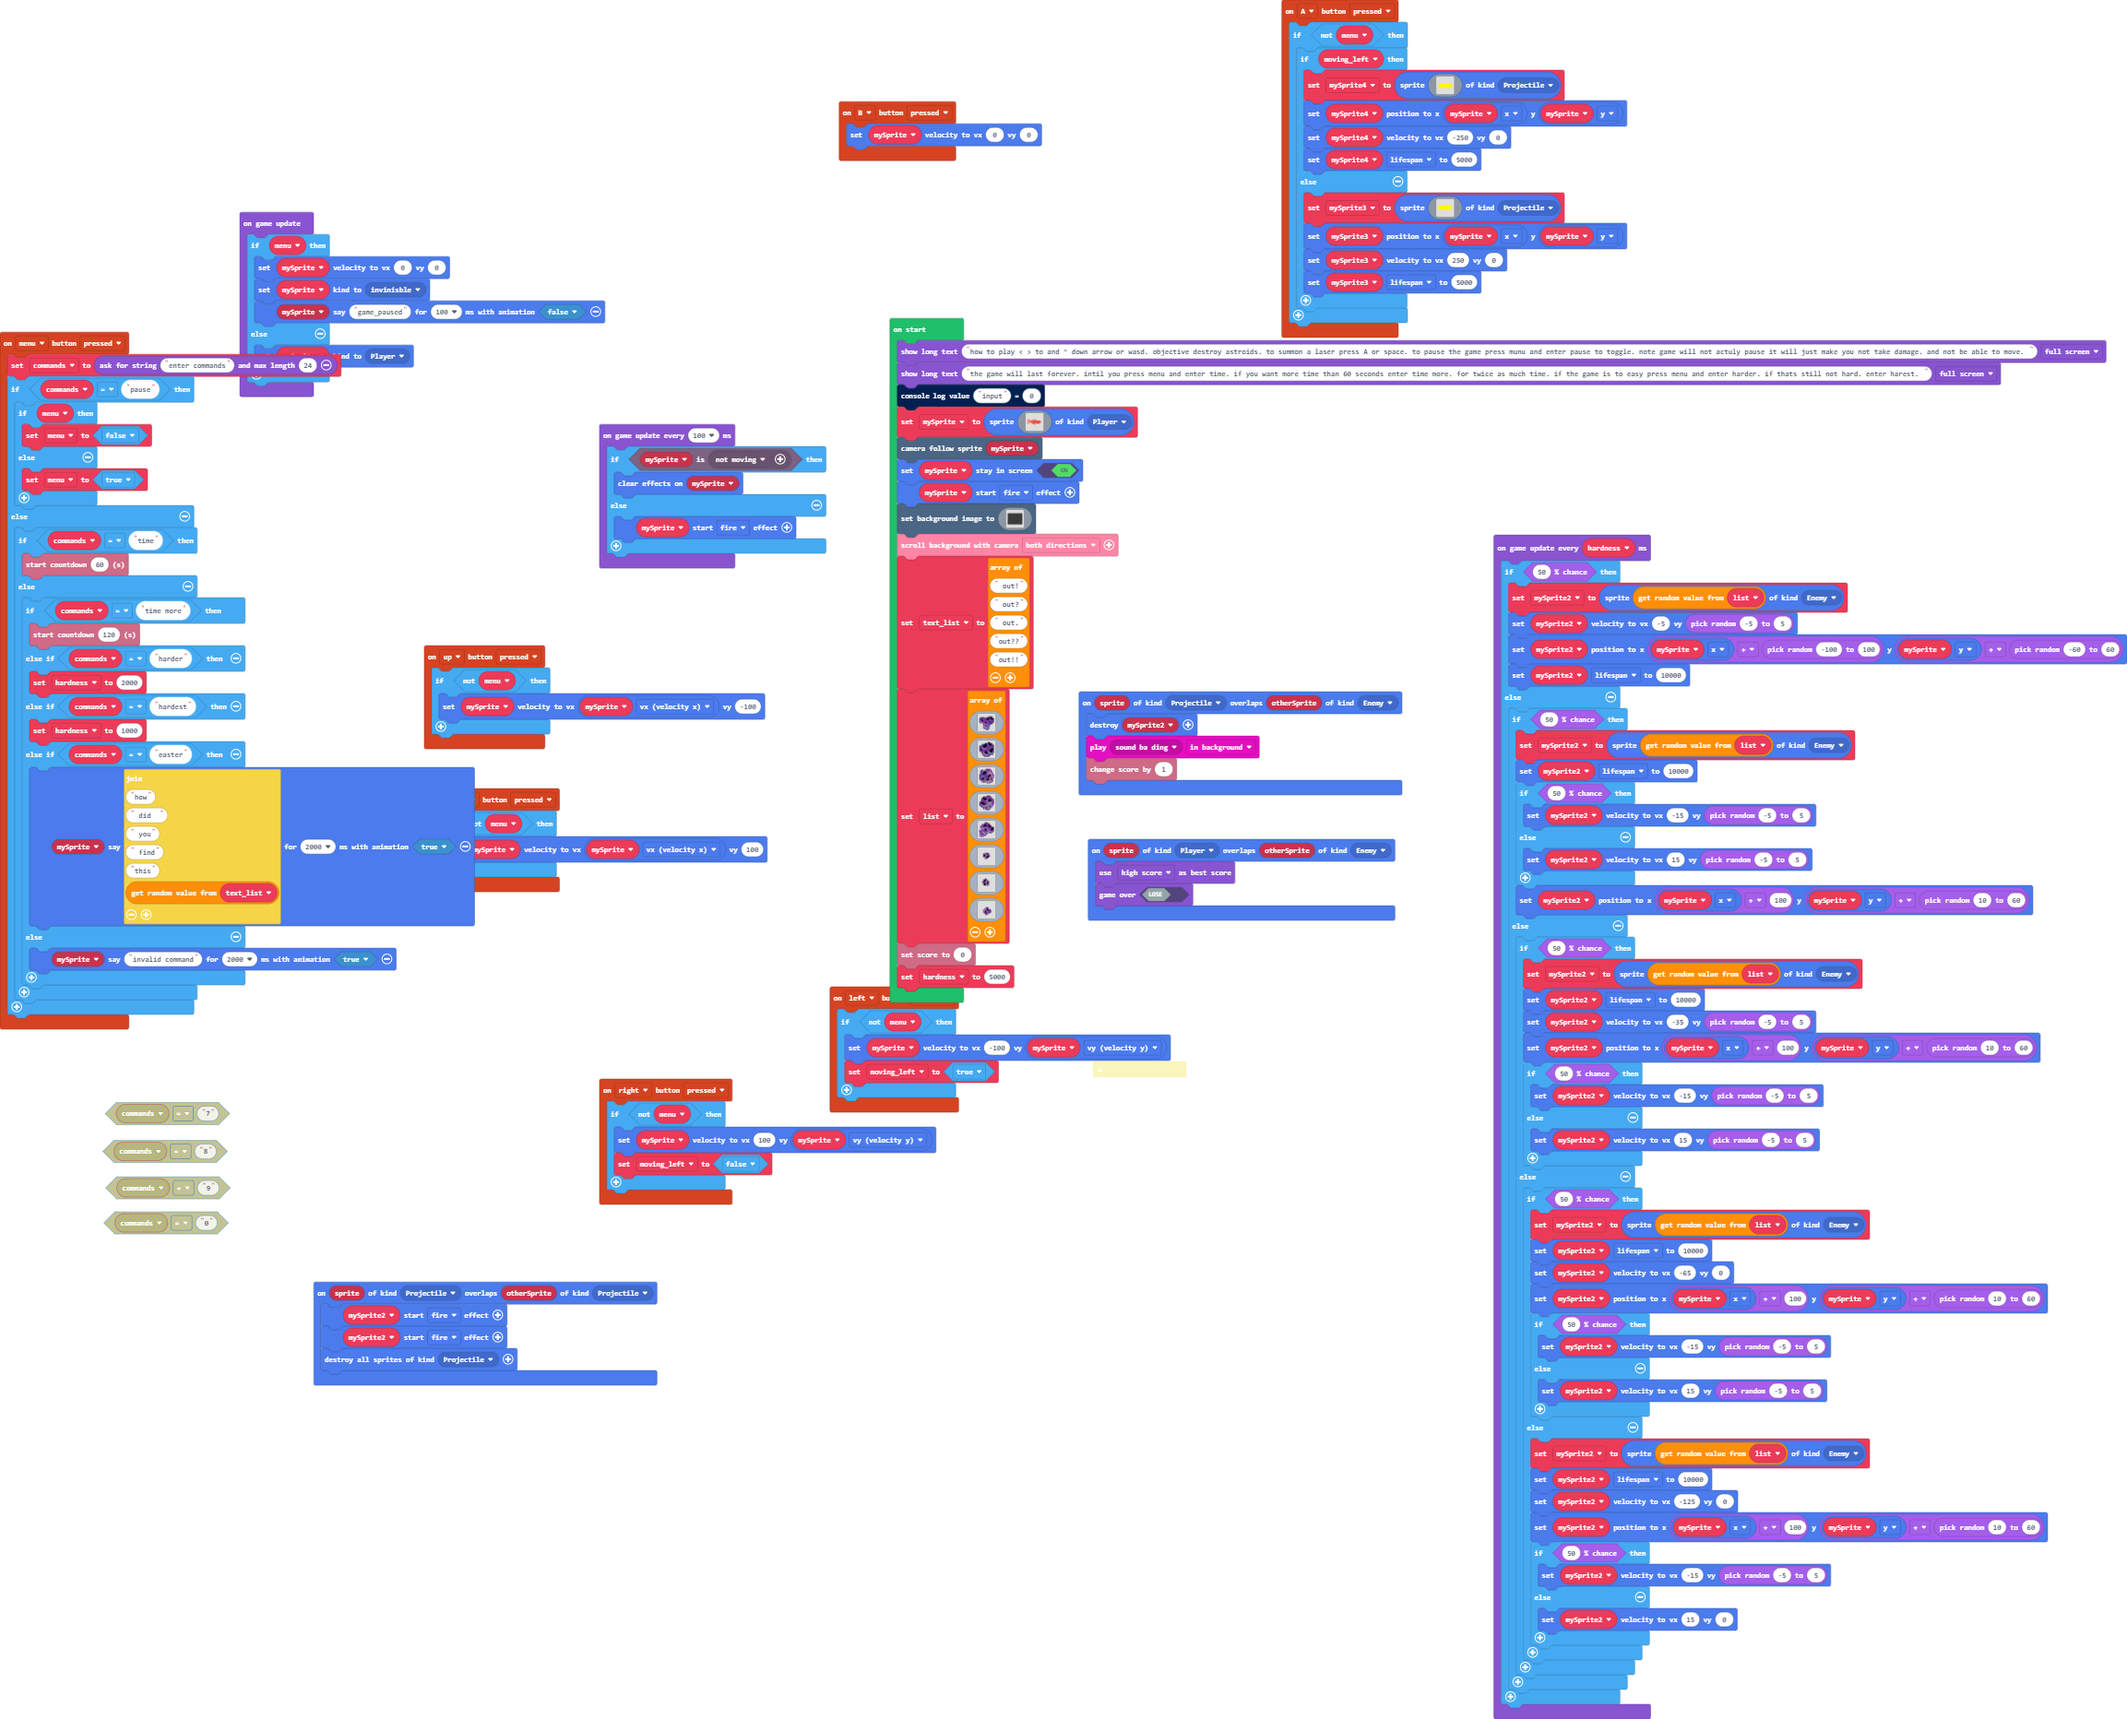
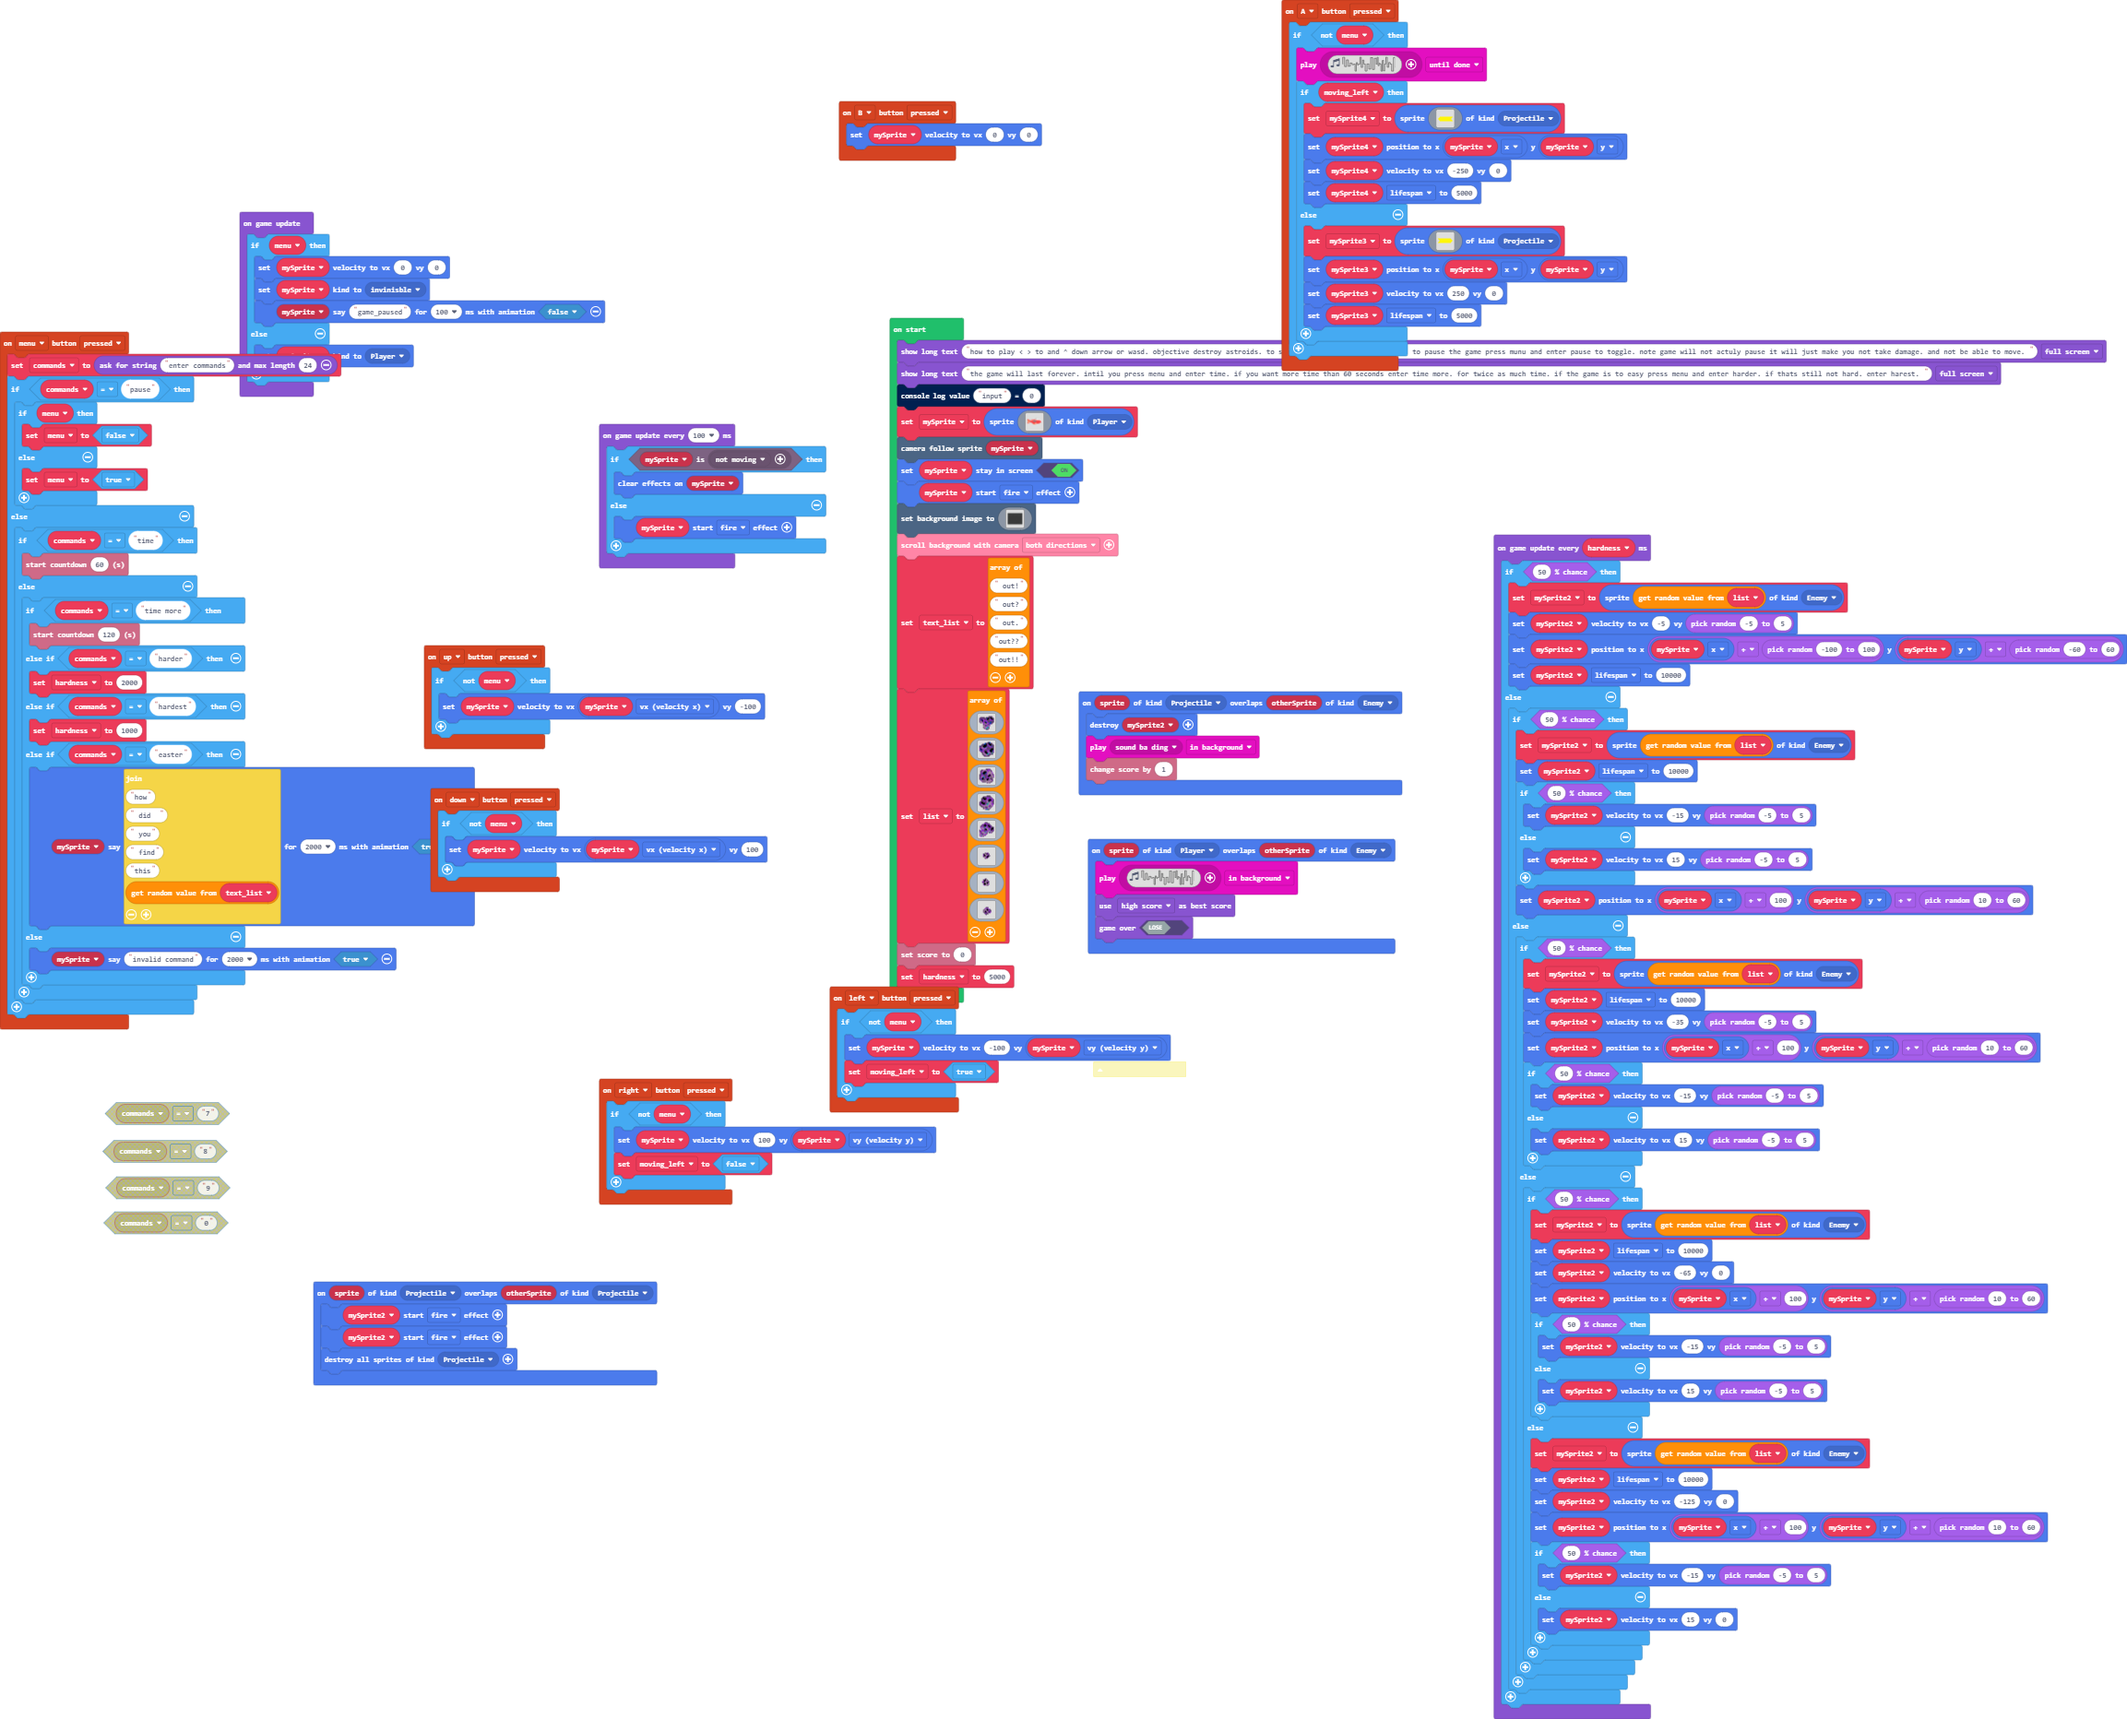
updated sound

diff --git a/main.ts b/main.ts
@@ -11,6 +11,7 @@ controller.B.onEvent(ControllerButtonEvent.Pressed, function () {
 })
 controller.A.onEvent(ControllerButtonEvent.Pressed, function () {
     if (!(menu)) {
+        music.play(music.createSoundEffect(WaveShape.Noise, 5000, 1, 255, 255, 200, SoundExpressionEffect.Vibrato, InterpolationCurve.Linear), music.PlaybackMode.UntilDone)
         if (moving_left) {
             mySprite4 = sprites.create(img`
                 . . . . . . . . . . . . . . . . 
@@ -114,6 +115,7 @@ sprites.onOverlap(SpriteKind.Projectile, SpriteKind.Enemy, function (sprite, oth
     info.changeScoreBy(1)
 })
 sprites.onOverlap(SpriteKind.Player, SpriteKind.Enemy, function (sprite, otherSprite) {
+    music.play(music.createSoundEffect(WaveShape.Noise, 5000, 0, 255, 255, 1000, SoundExpressionEffect.Vibrato, InterpolationCurve.Linear), music.PlaybackMode.InBackground)
     game.setGameOverScoringType(game.ScoringType.HighScore)
     game.gameOver(false)
 })
